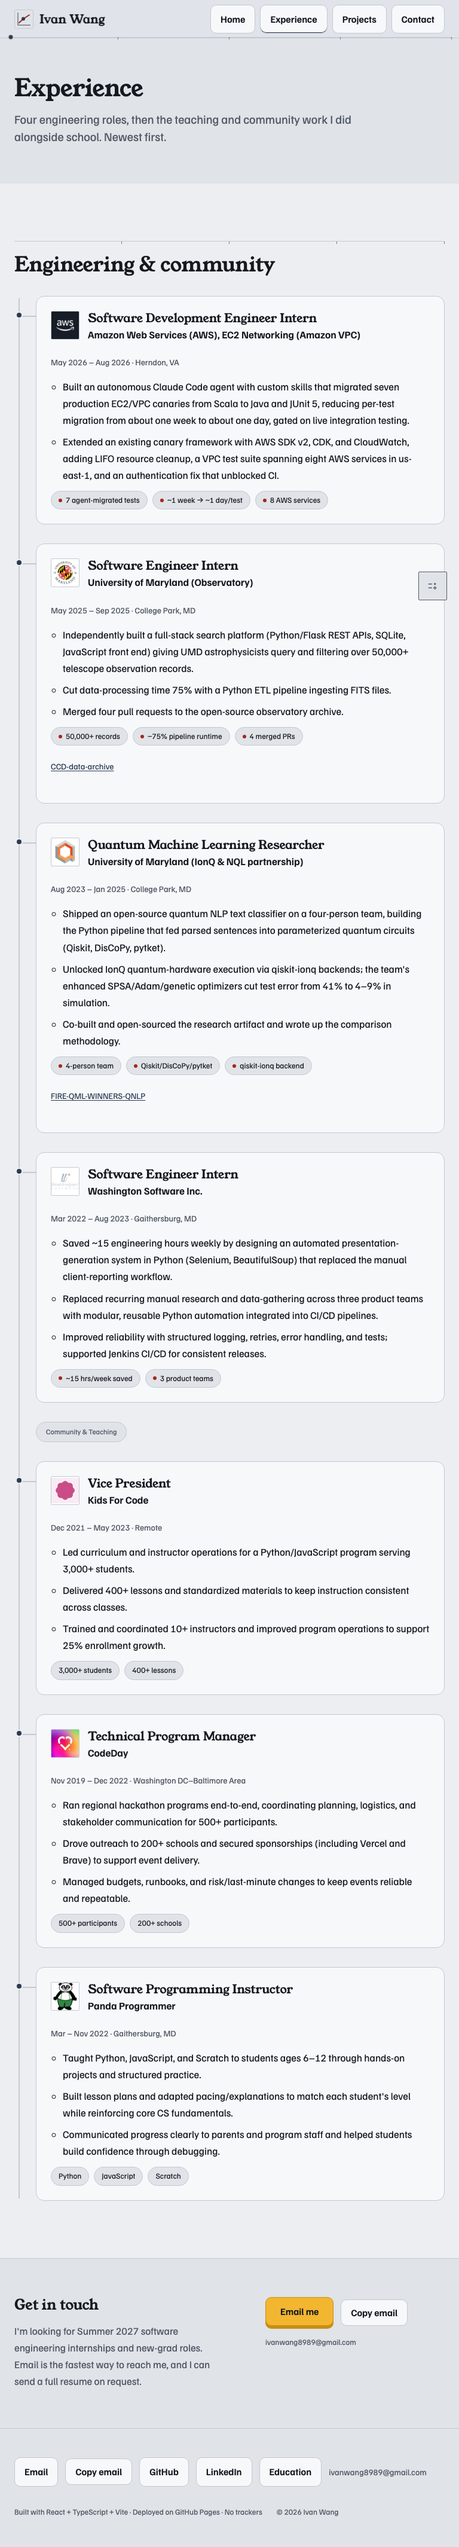
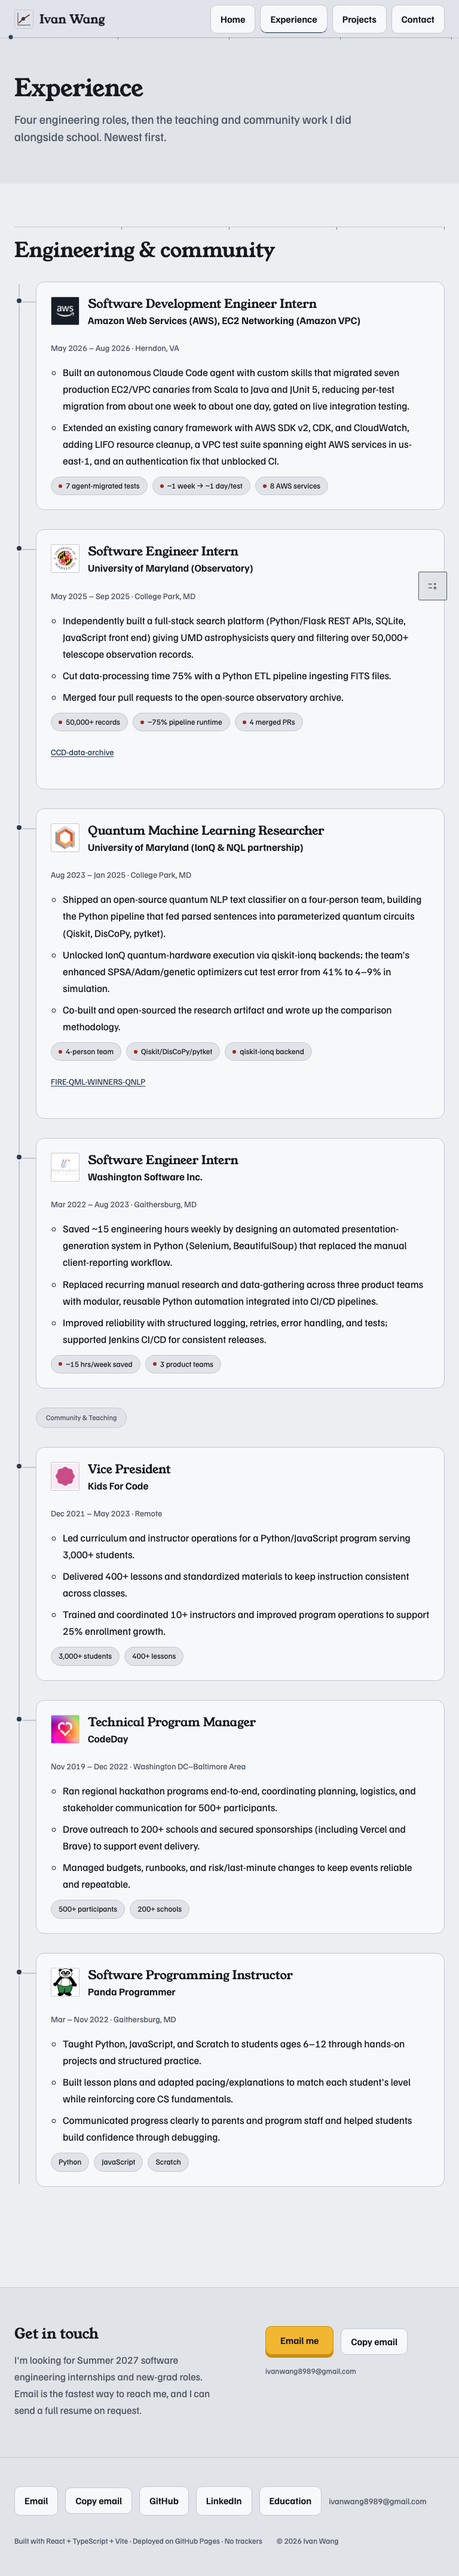
Redesign pass 2: keycap project switcher, more whitespace
Featured projects now sit behind a row of keycaps: press one and that project
swaps in, so every project is reachable without scrolling. It auto-advances
every 7 s with a yellow dwell strip, pauses on hover or focus, stops once the
reader presses a key, never moves under reduced motion, and without JavaScript
shows every project stacked. Sections get more vertical room on wide screens.

diff --git a/src/components/ProjectSwitcher.tsx b/src/components/ProjectSwitcher.tsx
@@ -1,0 +1,107 @@
+import { useCallback, useEffect, useRef, useState, type KeyboardEvent } from "react";
+import { featuredSystems, projects } from "../content";
+import { SystemFeature } from "./SystemFeature";
+
+/** How long each project stays up before the switcher moves on, while nobody has touched it. */
+const DWELL_MS = 7000;
+
+/**
+ * The featured projects as a row of keycaps. Press a key and that project swaps in, so a reader sees every
+ * project without scrolling. Without JavaScript (the prerendered page) every project renders stacked and no
+ * keys are drawn. While untouched it advances on its own every DWELL_MS; hover or focus pauses it, any key
+ * press stops it for good, and it never moves on its own for a reader who asks for reduced motion.
+ */
+export function ProjectSwitcher() {
+  const [mounted, setMounted] = useState(false);
+  const [active, setActive] = useState(0);
+  const [paused, setPaused] = useState(false);
+  const [stopped, setStopped] = useState(false);
+  const keys = useRef<(HTMLButtonElement | null)[]>([]);
+  const n = featuredSystems.length;
+
+  useEffect(() => {
+    setMounted(true);
+    if (window.matchMedia?.("(prefers-reduced-motion: reduce)").matches) setStopped(true);
+  }, []);
+
+  useEffect(() => {
+    if (!mounted || paused || stopped) return;
+    const t = window.setTimeout(() => {
+      if (!document.hidden) setActive((a) => (a + 1) % n);
+      else setActive((a) => a); // re-arm the timer while the tab is in the background
+    }, DWELL_MS);
+    return () => window.clearTimeout(t);
+  }, [mounted, paused, stopped, active, n]);
+
+  const choose = useCallback((i: number, focus = false) => {
+    setStopped(true);
+    setActive(i);
+    if (focus) keys.current[i]?.focus();
+  }, []);
+
+  const onKeyDown = (e: KeyboardEvent<HTMLDivElement>) => {
+    const step = e.key === "ArrowRight" ? 1 : e.key === "ArrowLeft" ? -1 : 0;
+    if (step) {
+      e.preventDefault();
+      choose((active + step + n) % n, true);
+    } else if (e.key === "Home" || e.key === "End") {
+      e.preventDefault();
+      choose(e.key === "Home" ? 0 : n - 1, true);
+    }
+  };
+
+  const running = mounted && !paused && !stopped;
+
+  return (
+    <div
+      className={mounted ? "switcher switcher--live" : "switcher"}
+      onMouseEnter={() => setPaused(true)}
+      onMouseLeave={() => setPaused(false)}
+      onFocus={() => setPaused(true)}
+      onBlur={() => setPaused(false)}
+    >
+      {mounted && (
+        <div className="switcher-keys" role="tablist" aria-label="Featured projects" onKeyDown={onKeyDown}>
+          {featuredSystems.map((p, i) => (
+            <button
+              key={p.id}
+              ref={(el) => {
+                keys.current[i] = el;
+              }}
+              type="button"
+              role="tab"
+              id={`switch-${p.id}`}
+              aria-selected={i === active}
+              aria-controls={`panel-${p.id}`}
+              tabIndex={i === active ? 0 : -1}
+              className={i === active ? "switch-key is-down" : "switch-key"}
+              onClick={() => choose(i)}
+            >
+              <span className="switch-key-title">{p.title}</span>
+              <span className="switch-key-sub">{p.eyebrow}</span>
+              {i === active && running && <span className="switch-key-timer" style={{ animationDuration: `${DWELL_MS}ms` }} aria-hidden="true" />}
+            </button>
+          ))}
+          <a className="switch-key switch-key--more" href="/projects/#selected">
+            <span className="switch-key-title">+{projects.length} more</span>
+            <span className="switch-key-sub">every project</span>
+          </a>
+        </div>
+      )}
+      <div className="system-list">
+        {featuredSystems.map((project, i) => (
+          <div
+            key={project.id}
+            className="switcher-panel"
+            id={`panel-${project.id}`}
+            role={mounted ? "tabpanel" : undefined}
+            aria-labelledby={mounted ? `switch-${project.id}` : undefined}
+            hidden={mounted && i !== active}
+          >
+            <SystemFeature project={project} index={i} variant="preview" reveal={!mounted} />
+          </div>
+        ))}
+      </div>
+    </div>
+  );
+}

diff --git a/src/index.css b/src/index.css
@@ -2544,3 +2544,153 @@ h3 {
     transform: none;
   }
 }
+
+/* --- project switcher: one keycap per featured project ------------------------------------------------ */
+.switcher-keys {
+  display: grid;
+  grid-template-columns: repeat(4, minmax(0, 1fr));
+  gap: var(--space-3);
+  margin: 0 0 var(--space-6);
+  padding: var(--space-3);
+  border-radius: 16px;
+  background: var(--surface-inset);
+}
+
+.switch-key {
+  --key-depth: 6px;
+  position: relative;
+  display: flex;
+  flex-direction: column;
+  align-items: flex-start;
+  gap: 2px;
+  min-height: 72px;
+  padding: var(--space-3) var(--space-4) var(--space-4);
+  border: 1px solid var(--key-skirt);
+  border-radius: 10px;
+  background: linear-gradient(180deg, var(--key-top) 0%, #eef0f3 100%);
+  box-shadow: 0 var(--key-depth) 0 var(--key-skirt);
+  margin-bottom: var(--key-depth);
+  color: var(--ink);
+  font: inherit;
+  text-align: left;
+  text-decoration: none;
+  cursor: pointer;
+  overflow: hidden;
+  transition: transform 110ms var(--ease-out), box-shadow 110ms var(--ease-out), background-color 110ms ease;
+}
+
+.switch-key:hover {
+  transform: translateY(2px);
+  box-shadow: 0 4px 0 var(--key-skirt);
+}
+
+/* The chosen project is the held-down modifier key: slate, pressed flat. */
+.switch-key.is-down {
+  transform: translateY(5px);
+  box-shadow: 0 1px 0 var(--key-skirt);
+  background: var(--ink-accent);
+  border-color: var(--ink-accent);
+  color: var(--on-accent);
+}
+
+.switch-key-title {
+  font-family: var(--font-display);
+  font-size: var(--fs-600);
+  line-height: 1.2;
+  white-space: nowrap;
+}
+
+.switch-key-sub {
+  font-size: var(--fs-300);
+  color: var(--ink-2);
+}
+
+.switch-key.is-down .switch-key-sub {
+  color: color-mix(in srgb, var(--on-accent) 82%, var(--ink-accent));
+}
+
+.switch-key--more {
+  background: transparent;
+  border-style: dashed;
+  box-shadow: none;
+  margin-bottom: var(--key-depth);
+}
+
+/* The dwell timer: a yellow strip that fills along the bottom of the held key, then the next key goes down. */
+.switch-key-timer {
+  position: absolute;
+  left: 0;
+  bottom: 0;
+  height: 4px;
+  width: 100%;
+  background: var(--key-enter);
+  transform-origin: left center;
+  animation-name: switch-dwell;
+  animation-timing-function: linear;
+  animation-fill-mode: both;
+}
+
+@keyframes switch-dwell {
+  from { transform: scaleX(0); }
+  to { transform: scaleX(1); }
+}
+
+.switcher-panel[hidden] {
+  display: none;
+}
+
+/* A swapped-in project settles into place: the only entrance motion on the page besides the keys themselves. */
+.switcher--live .switcher-panel:not([hidden]) {
+  animation: switch-in 260ms var(--ease-out) both;
+}
+
+@keyframes switch-in {
+  from { opacity: 0; transform: translateY(6px); }
+  to { opacity: 1; transform: none; }
+}
+
+.switcher--live .system-list {
+  display: block;
+}
+
+@media (max-width: 767px) {
+  .switcher-keys {
+    grid-template-columns: repeat(2, minmax(0, 1fr));
+  }
+}
+
+@media (prefers-reduced-motion: reduce) {
+  .switch-key,
+  .switcher--live .switcher-panel:not([hidden]) {
+    transition: none;
+    animation: none;
+  }
+}
+
+/* --- room to breathe ------------------------------------------------------------------------------------ */
+@media (min-width: 768px) {
+  .section {
+    padding-block: clamp(4.5rem, 9vw, 8rem);
+  }
+  .hero-band {
+    padding-block: clamp(2rem, 5vw, 4.5rem);
+  }
+  .systems-sweep {
+    margin-top: var(--space-8);
+  }
+}
+
+@media (max-width: 767px) {
+  .systems-sweep {
+    margin-top: var(--space-6);
+  }
+}
+
+/* Without JavaScript the prerendered snapshot still carries the keys and the hidden panels. The keys could
+   do nothing there, so they go, and every project shows stacked. */
+html:not(.js) .switcher-keys {
+  display: none;
+}
+html:not(.js) .switcher-panel[hidden] {
+  display: block;
+}

diff --git a/src/pages/home/main.tsx b/src/pages/home/main.tsx
@@ -3,7 +3,7 @@ import { createRoot } from "react-dom/client";
 import { enableJs } from "../../js-flag";
 import "../../enhance";
 import "../../index.css";
-import { education, featuredSystems, hero, hobbies, openSource, person, projects, skills } from "../../content";
+import { education, hero, hobbies, openSource, person, projects, skills } from "../../content";
 import { ContactBand, EduCard } from "../../components/cards";
 import { ErrorBoundary } from "../../components/ErrorBoundary";
 import { Chip, ProofChip } from "../../components/chips";
@@ -14,7 +14,7 @@ import { ExternalLink, LabelButton } from "../../components/LabelButton";
 import { Nav } from "../../components/Nav";
 import { Section } from "../../components/Section";
 import { Sweep } from "../../components/Sweep";
-import { SystemFeature } from "../../components/SystemFeature";
+import { ProjectSwitcher } from "../../components/ProjectSwitcher";
 
 function Home() {
   return (
@@ -83,15 +83,10 @@ function Home() {
         </section>
 
         <Section id="systems" title="Featured engineering work" rank={1}>
-          {/* The section opens with one figure at the full container measure. */}
+          <ProjectSwitcher />
+          {/* The one interactive chart, lodestone's measured trade-off, after the projects it belongs to. */}
           <div className="systems-sweep">
             <Sweep />
-          </div>
-          <div className="system-list">
-            {/* Preview, not the full sheet. */}
-            {featuredSystems.map((project, i) => (
-              <SystemFeature key={project.id} project={project} index={i} variant="preview" />
-            ))}
           </div>
           {/* An exit that points at what the reader has not seen. */}
           <p className="section-exit">

diff --git a/src/components/SystemFeature.tsx b/src/components/SystemFeature.tsx
@@ -100,16 +100,18 @@ export function SystemFeature({
   project,
   index = 0,
   variant = "full",
+  reveal = true,
 }: {
   project: FeaturedSystem;
   index?: number;
   variant?: "full" | "preview";
+  /** False inside the project switcher, which shows one panel at a time and must not wait on a scroll reveal. */
+  reveal?: boolean;
 }) {
   const figureNumber = FIRST_SYSTEM_FIGURE + featuredSystems.findIndex((s) => s.id === project.id);
   const preview = variant === "preview";
   if (preview) {
-    return (
-      <Reveal delay={index}>
+    const plate = (
         <Plate
           id={project.id}
           className="system-feature system-preview sheet-block sheet-live"
@@ -141,8 +143,8 @@ export function SystemFeature({
             </p>
           </div>
         </Plate>
-      </Reveal>
     );
+    return reveal ? <Reveal delay={index}>{plate}</Reveal> : plate;
   }
   return (
     <Reveal delay={index}>

diff --git a/DESIGN.md b/DESIGN.md
@@ -66,6 +66,14 @@ geometry:
   r-chip: "999px"
   hairline: "1px"
 ---
+> **SUPERSEDED 2026-11-17 by the "keycap colorway" redesign (owner direction: more human, more playful,
+> less like the generic AI look).** Palette: alpha-grey sheet `#eceef1`, slate modifier `#2c3a52`, ink
+> `#16191f`, Escape-red data `#a3271c`, one yellow Enter key `#f2b630` (fill only). Type: Young Serif
+> (display) + Familjen Grotesk (body); Martian Mono and all-caps labels removed. The hero results are
+> sculpted keycaps that travel when pressed; the primary CTA is the Enter key; featured projects sit behind a
+> keycap switcher that auto-advances every 7 s until touched (never under reduced motion; without JavaScript
+> every project shows stacked). The token *names* below still apply; their values and the font notes are
+> history. Source of truth: `src/styles/tokens.css` and the keycap layer at the end of `src/index.css`.
 
 # Design System: Warm Paper — as built
 
